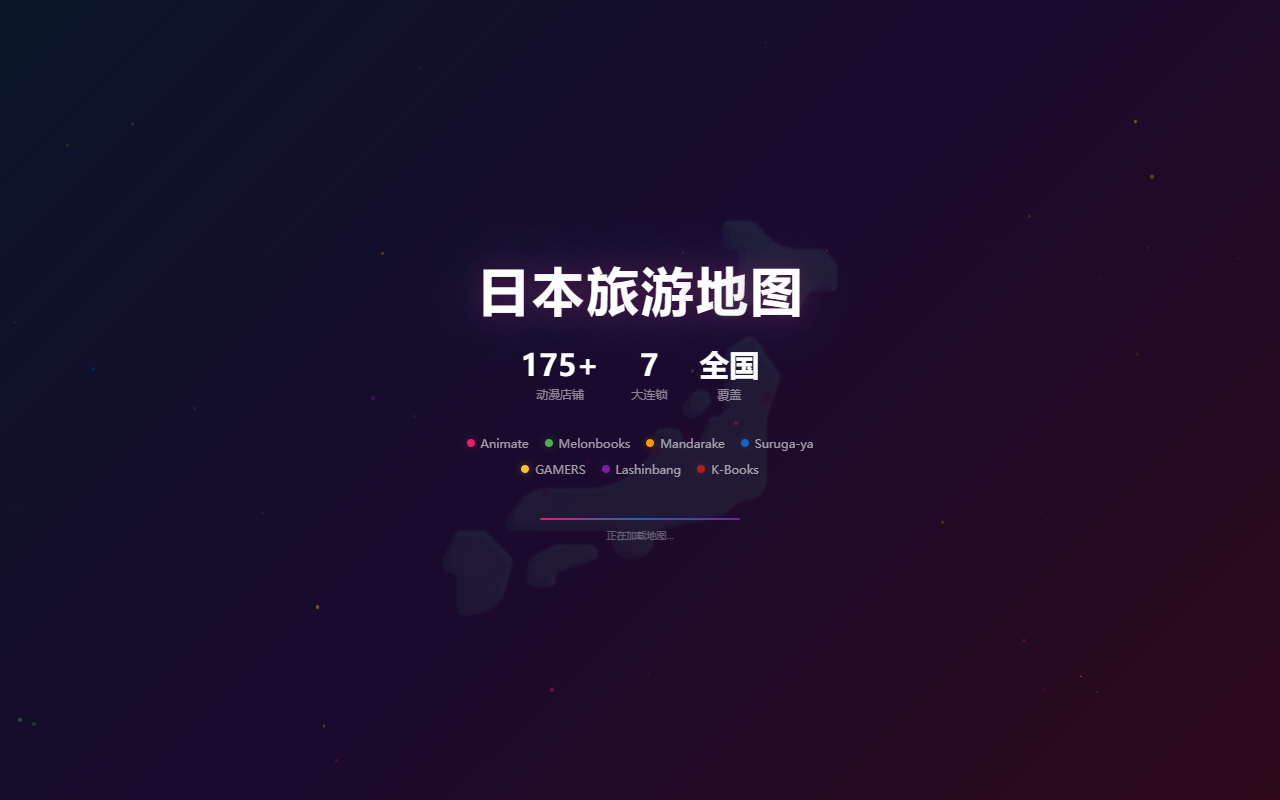
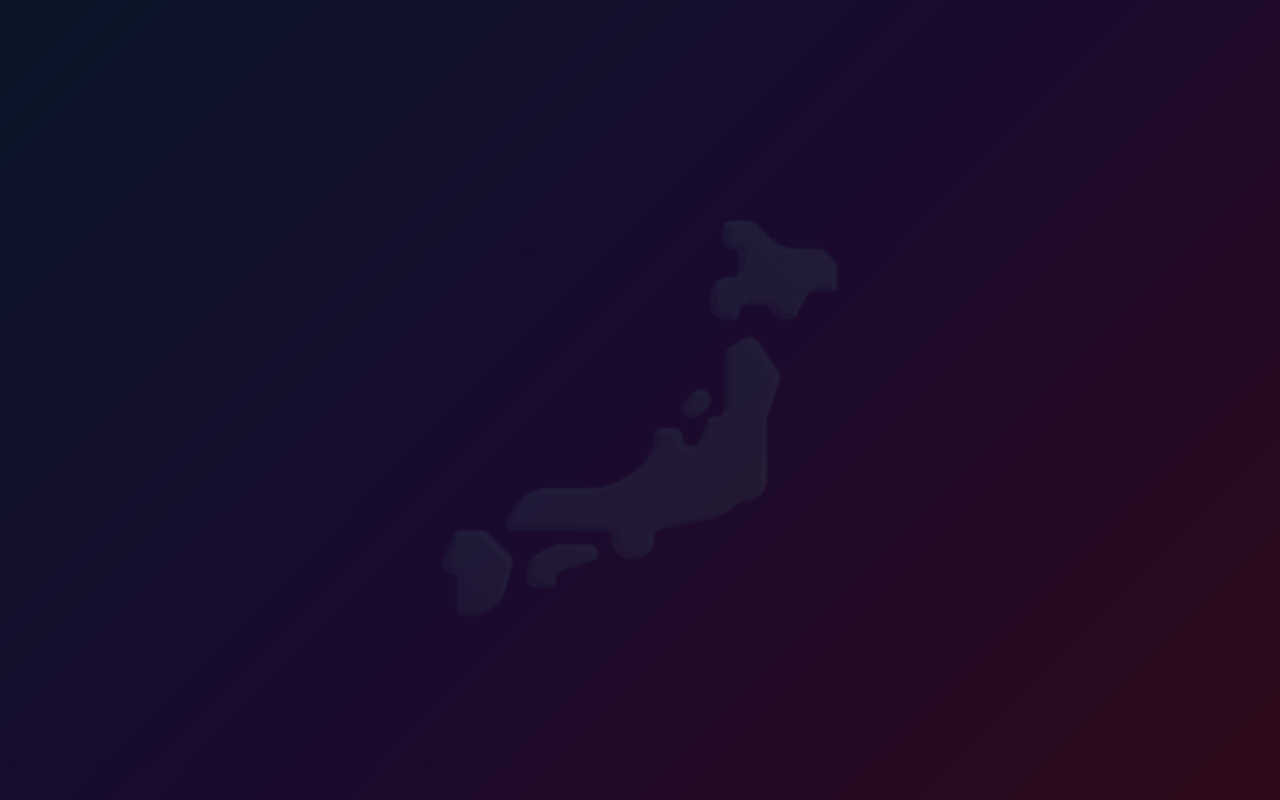
docs: 同步GitHub信息+重新截图
- 重新截取欢迎页和地图界面截图
- README添加加载过渡页功能说明
- README添加Cloudflare Workers瓦片代理技术栈
- 更新GitHub仓库描述

diff --git a/README.md b/README.md
@@ -50,7 +50,8 @@
 | 🤖 **AI 小助手** | DeepSeek API + Cloudflare Worker 代理，内置 176 家店铺知识的旅行顾问 |
 | 🛡️ **安全扫描** | AutoSec-QC 提示词注入检测，40+ 条规则覆盖 10 个攻击类别 |
 | 📲 **Android APK** | WebView 全屏应用，GitHub Actions 自动构建，网站更新后自动同步 |
-| ⚡ **性能优化** | 代码分割 3 chunk、CSS 变量驱动 marker、content-visibility 懒加载、Service Worker 瓦片缓存 |
+| 🎬 **加载过渡页** | 动画加载过渡页，地图资源就绪后自动进入主界面 |
+| ⚡ **性能优化** | Cloudflare Workers 瓦片代理加速、代码分割 3 chunk、CSS 变量驱动 marker、content-visibility 懒加载、Service Worker 瓦片缓存 |
 
 ---
 
@@ -64,6 +65,7 @@
 | **样式** | [TailwindCSS 4](https://tailwindcss.com) — CSS 变量 |
 | **地图引擎** | [MapLibre GL JS 5](https://maplibre.org) — 矢量瓦片渲染 |
 | **瓦片源** | [OpenFreeMap](https://openfreemap.org) — 免费、无 Key、全球 CDN |
+| **瓦片代理** | [Cloudflare Workers](https://workers.cloudflare.com) — 亚太加速 + 缓存优化 |
 | **状态管理** | [Zustand 5](https://zustand.docs.pmnd.rs) — 轻量、持久化 |
 | **图标** | [Lucide React](https://lucide.dev) |
 | **AI 模型** | [DeepSeek API](https://platform.deepseek.com) — 旅行助手对话模型 |

diff --git a/CHANGELOG.md b/CHANGELOG.md
@@ -5,6 +5,7 @@
 格式基于 [Keep a Changelog](https://keepachangelog.com/zh-CN/1.1.0/)，
 版本号遵循 [语义化版本](https://semver.org/lang/zh-CN/)。
 
+- 重新截图（欢迎页+地图界面）+ README同步加载过渡页和瓦片代理说明
 - 侧边栏标题统一为"日本动漫店铺地图"
 - 欢迎页标题8字不换行 — 字号适配（clamp(22px,5.5vw,48px) + whitespace-nowrap）
 - 删除欢迎页底部进度条 — 避免与加载过渡页进度条重复